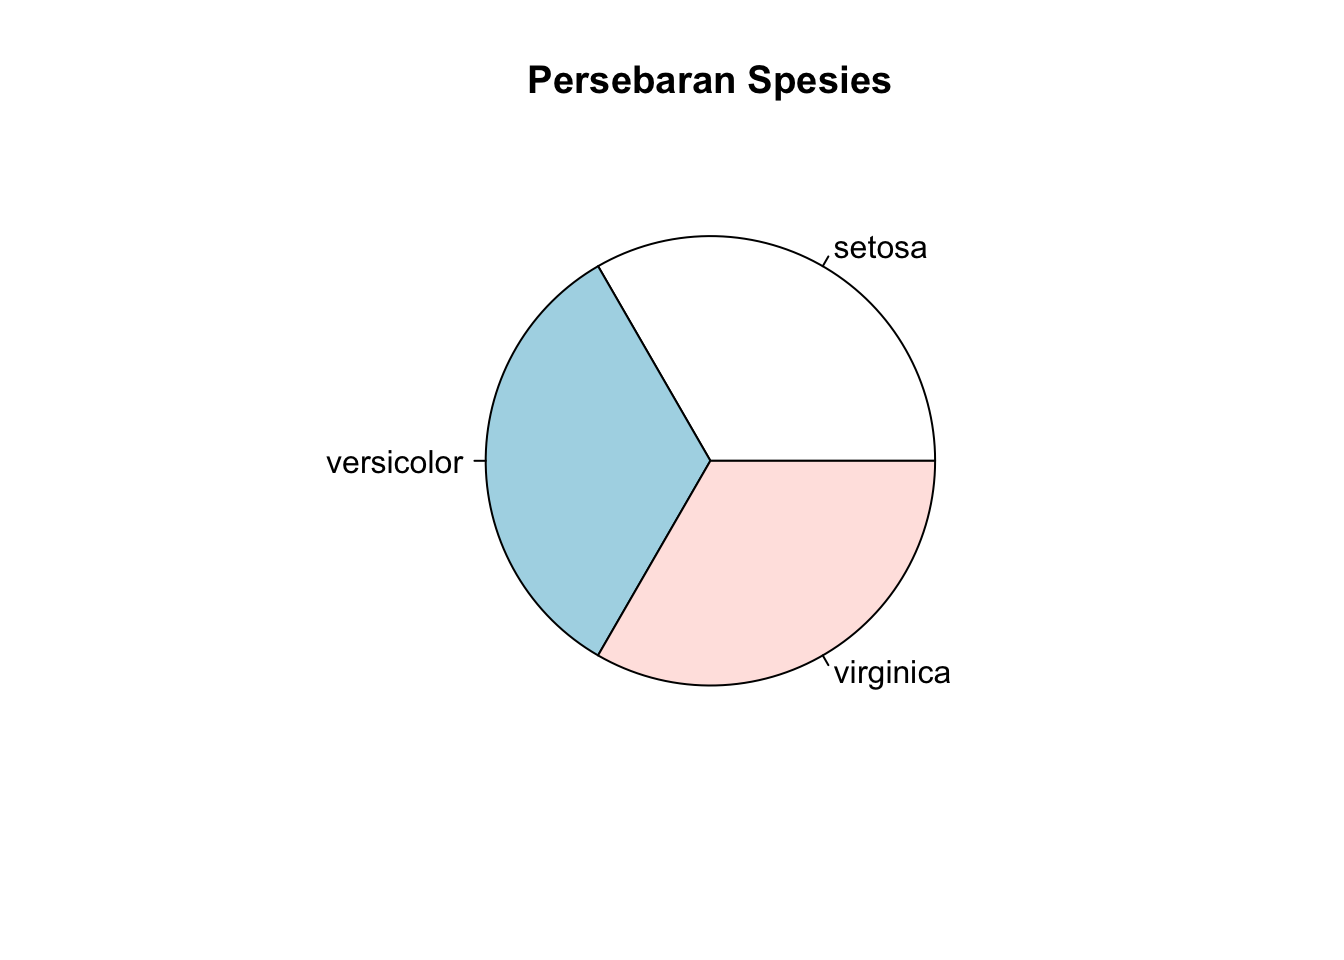
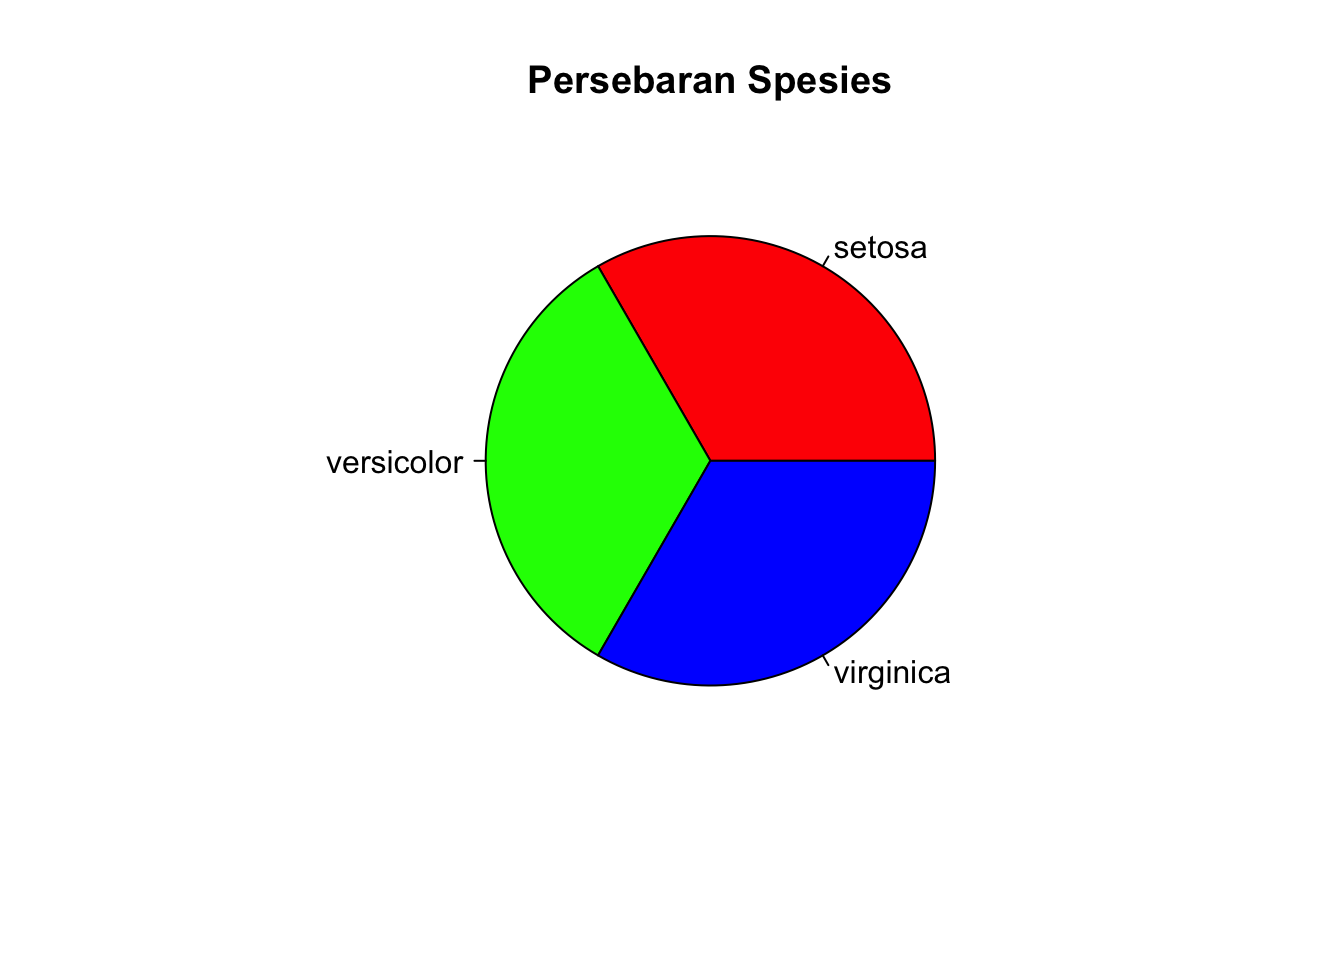
tambah warna pie chart modul 3 prak psd

Changed region(s): [[0.3438, 0.25, 0.7188, 0.7188]]

diff --git a/docs/semuahalaman/modulprak/2024/ganjil/psd/modul3.html b/docs/semuahalaman/modulprak/2024/ganjil/psd/modul3.html
@@ -337,15 +337,15 @@ pre > code.sourceCode > span > a:first-child::before { text-decoration: underlin
 <div class="cell">
 <div class="sourceCode cell-code" id="cb32"><pre class="sourceCode r code-with-copy"><code class="sourceCode r"><span id="cb32-1"><a href="#cb32-1" aria-hidden="true" tabindex="-1"></a><span class="fu">sample</span>(nama_buah, <span class="dv">2</span>)</span></code><button title="Copy to Clipboard" class="code-copy-button"><i class="bi"></i></button></pre></div>
 <div class="cell-output cell-output-stdout">
-<pre><code>[1] "jeruk"  "pisang"</code></pre>
+<pre><code>[1] "apel"  "jeruk"</code></pre>
 </div>
 <div class="sourceCode cell-code" id="cb34"><pre class="sourceCode r code-with-copy"><code class="sourceCode r"><span id="cb34-1"><a href="#cb34-1" aria-hidden="true" tabindex="-1"></a><span class="fu">sample</span>(nama_buah, <span class="dv">2</span>)</span></code><button title="Copy to Clipboard" class="code-copy-button"><i class="bi"></i></button></pre></div>
 <div class="cell-output cell-output-stdout">
-<pre><code>[1] "apel"  "jeruk"</code></pre>
+<pre><code>[1] "jeruk" "apel" </code></pre>
 </div>
 <div class="sourceCode cell-code" id="cb36"><pre class="sourceCode r code-with-copy"><code class="sourceCode r"><span id="cb36-1"><a href="#cb36-1" aria-hidden="true" tabindex="-1"></a><span class="fu">sample</span>(nama_buah, <span class="dv">2</span>)</span></code><button title="Copy to Clipboard" class="code-copy-button"><i class="bi"></i></button></pre></div>
 <div class="cell-output cell-output-stdout">
-<pre><code>[1] "apel"   "pisang"</code></pre>
+<pre><code>[1] "pisang" "apel"  </code></pre>
 </div>
 </div>
 <p><em>Sampling</em> seperti itu disebut <strong>tanpa pengembalian <em>(without replacement)</em></strong>. Apabila angka 2 diganti jadi angka 4, kita memerintah R untuk mengambil 4 buah data yang tidak boleh sama dari suatu <em>vector</em> yang hanya memiliki 3 buah data, sehingga akan <em>error</em>.</p>
@@ -353,15 +353,15 @@ pre > code.sourceCode > span > a:first-child::before { text-decoration: underlin
 <div class="cell">
 <div class="sourceCode cell-code" id="cb38"><pre class="sourceCode r code-with-copy"><code class="sourceCode r"><span id="cb38-1"><a href="#cb38-1" aria-hidden="true" tabindex="-1"></a><span class="fu">sample</span>(nama_buah, <span class="dv">4</span>, <span class="at">replace =</span> <span class="cn">TRUE</span>)</span></code><button title="Copy to Clipboard" class="code-copy-button"><i class="bi"></i></button></pre></div>
 <div class="cell-output cell-output-stdout">
-<pre><code>[1] "pisang" "apel"   "apel"   "apel"  </code></pre>
+<pre><code>[1] "apel"   "pisang" "apel"   "apel"  </code></pre>
 </div>
 <div class="sourceCode cell-code" id="cb40"><pre class="sourceCode r code-with-copy"><code class="sourceCode r"><span id="cb40-1"><a href="#cb40-1" aria-hidden="true" tabindex="-1"></a><span class="fu">sample</span>(nama_buah, <span class="dv">4</span>, <span class="at">replace =</span> <span class="cn">TRUE</span>)</span></code><button title="Copy to Clipboard" class="code-copy-button"><i class="bi"></i></button></pre></div>
 <div class="cell-output cell-output-stdout">
-<pre><code>[1] "pisang" "apel"   "jeruk"  "pisang"</code></pre>
+<pre><code>[1] "jeruk"  "jeruk"  "pisang" "pisang"</code></pre>
 </div>
 <div class="sourceCode cell-code" id="cb42"><pre class="sourceCode r code-with-copy"><code class="sourceCode r"><span id="cb42-1"><a href="#cb42-1" aria-hidden="true" tabindex="-1"></a><span class="fu">sample</span>(nama_buah, <span class="dv">4</span>, <span class="at">replace =</span> <span class="cn">TRUE</span>)</span></code><button title="Copy to Clipboard" class="code-copy-button"><i class="bi"></i></button></pre></div>
 <div class="cell-output cell-output-stdout">
-<pre><code>[1] "apel" "apel" "apel" "apel"</code></pre>
+<pre><code>[1] "apel"   "pisang" "apel"   "pisang"</code></pre>
 </div>
 </div>
 <p>Apabila kalian coba <code>replace = FALSE</code>, hasilnya akan seolah-olah kalian tidak menentukan opsi <code>replace</code> sama sekali.</p>
@@ -1169,7 +1169,8 @@ Attaching package: 'dplyr'</code></pre>
 <div class="cell">
 <div class="sourceCode cell-code" id="cb118"><pre class="sourceCode r code-with-copy"><code class="sourceCode r"><span id="cb118-1"><a href="#cb118-1" aria-hidden="true" tabindex="-1"></a><span class="fu">pie</span>(freq_species<span class="sc">$</span>Freq,</span>
 <span id="cb118-2"><a href="#cb118-2" aria-hidden="true" tabindex="-1"></a>    <span class="at">labels =</span> freq_species<span class="sc">$</span>Var1,</span>
-<span id="cb118-3"><a href="#cb118-3" aria-hidden="true" tabindex="-1"></a>    <span class="at">main =</span> <span class="st">"Persebaran Spesies"</span>)</span></code><button title="Copy to Clipboard" class="code-copy-button"><i class="bi"></i></button></pre></div>
+<span id="cb118-3"><a href="#cb118-3" aria-hidden="true" tabindex="-1"></a>    <span class="at">main =</span> <span class="st">"Persebaran Spesies"</span>,</span>
+<span id="cb118-4"><a href="#cb118-4" aria-hidden="true" tabindex="-1"></a>    <span class="at">col=</span><span class="fu">c</span>(<span class="st">"red"</span>, <span class="st">"green"</span>, <span class="st">"blue"</span>))</span></code><button title="Copy to Clipboard" class="code-copy-button"><i class="bi"></i></button></pre></div>
 <div class="cell-output-display">
 <div>
 <figure class="figure">

diff --git a/docs/semuahalaman/modulprak/2024/ganjil/psd/psd2024.html b/docs/semuahalaman/modulprak/2024/ganjil/psd/psd2024.html
@@ -241,7 +241,7 @@ Sep 19, 2024
 </div>
 </a>
 </div>
-<div class="g-col-1" data-index="2" data-listing-date-sort="1727629200000" data-listing-file-modified-sort="1727946819383" data-listing-date-modified-sort="NaN" data-listing-reading-time-sort="10" data-listing-word-count-sort="1847">
+<div class="g-col-1" data-index="2" data-listing-date-sort="1727629200000" data-listing-file-modified-sort="1727946986047" data-listing-date-modified-sort="NaN" data-listing-reading-time-sort="10" data-listing-word-count-sort="1853">
 <a href="../../../../../semuahalaman/modulprak/2024/ganjil/psd/modul3.html" class="quarto-grid-link">
 <div class="quarto-grid-item card h-100 card-left">
 <p class="card-img-top"><img src="modul3_files/figure-html/unnamed-chunk-45-1.png" style="height: 150px;"  class="thumbnail-image card-img"/></p>
